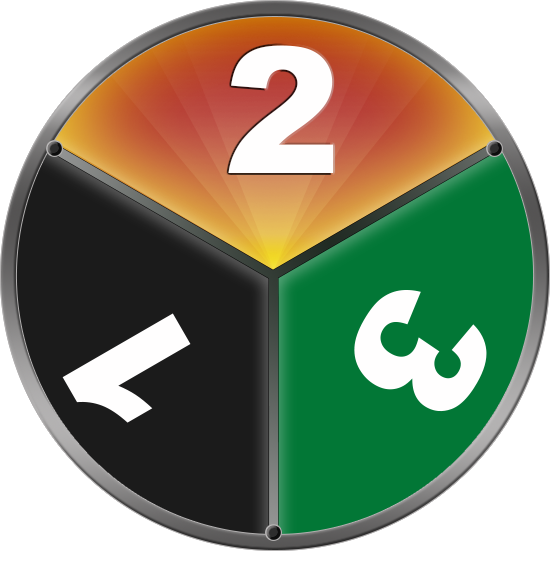
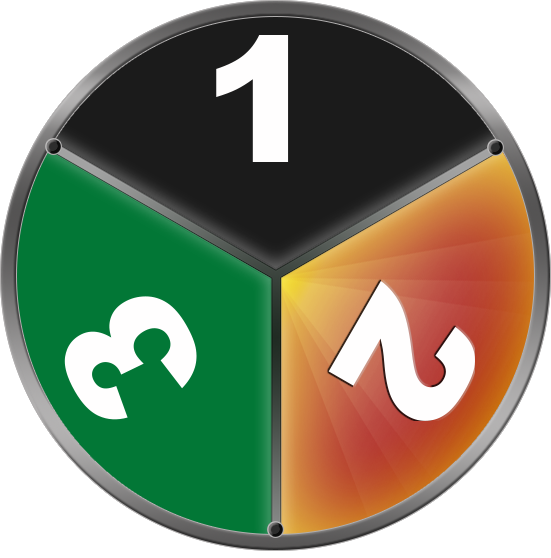
style change

diff --git a/index.html b/index.html
@@ -17,14 +17,17 @@
         <!--矢印-->
         <img class="allow" src="assets/images/allow.png">
         <!--ルーレット本体-->
-        <svg id="roulette" class="rolette" xmlns="http://www.w3.org/2000/svg" viewBox="-1 -1 202 202">
-          <g>
-            <path stroke="black" stroke-width="1" fill="none" d="M 100,100 h 100 A 100,100 0 0,0 50,13.39746 Z" />
-            <path stroke="black" stroke-width="1" fill="none" d="M 100,100 h 100 A 100,100 0 0,1 50,186.6025404 Z" />
-            <path stroke="black" stroke-width="1" fill="none" d="M 100,100 L 50,13.39746 A 100,100 0 0,0 50,186.6025404 Z" />
-          </g>
-        </svg>
-        <!-- <img id="roulette" src="assets/images/roulette.png"> -->
+        <!--<svg id="roulette" class="rolette" xmlns="http://www.w3.org/2000/svg" viewBox="-1 -1 202 202">-->
+          <!--<g>-->
+            <!--<path stroke="black" stroke-width="1" fill="none" d="M 100,100 h 100 A 100,100 0 0,0 50,13.39746 Z" />-->
+            <!--<path stroke="black" stroke-width="1" fill="none" d="M 100,100 h 100 A 100,100 0 0,1 50,186.6025404 Z" />-->
+            <!--<path stroke="black" stroke-width="1" fill="none" d="M 100,100 L 50,13.39746 A 100,100 0 0,0 50,186.6025404 Z" />-->
+          <!--</g>-->
+        <!--</svg>-->
+        <img id="roulette" src="assets/images/nomal.png">
+        <img id="roulette_1" src="assets/images/light_1.png">
+        <img id="roulette_2" src="assets/images/light_2.png">
+        <img id="roulette_3" src="assets/images/light_3.png">
     </div>
     <div class="button_wrap">
         <!--スタート・ストップボタン-->

diff --git a/assets/css/common.css b/assets/css/common.css
@@ -16,11 +16,24 @@
     top: 0;
     left: 0;
     right: 0;
+    top: 0;
     margin: 0 auto;
-    z-index: 1;
+    z-index: 2;
 }
-
-.rolette{
+#rolette{
     width: 50%;
     z-index: 0;
+    position: absolute;
+    left: 0;
+    right: 0;
+    top: 30px;
+    margin: 0 auto;
+}
+#roulette_1,#roulette_2,#roulette_3{
+    display: none;
+    position: absolute;
+    left: 0;
+    right: 0;
+    top: 80px;
+    margin: 0 auto;
 }
